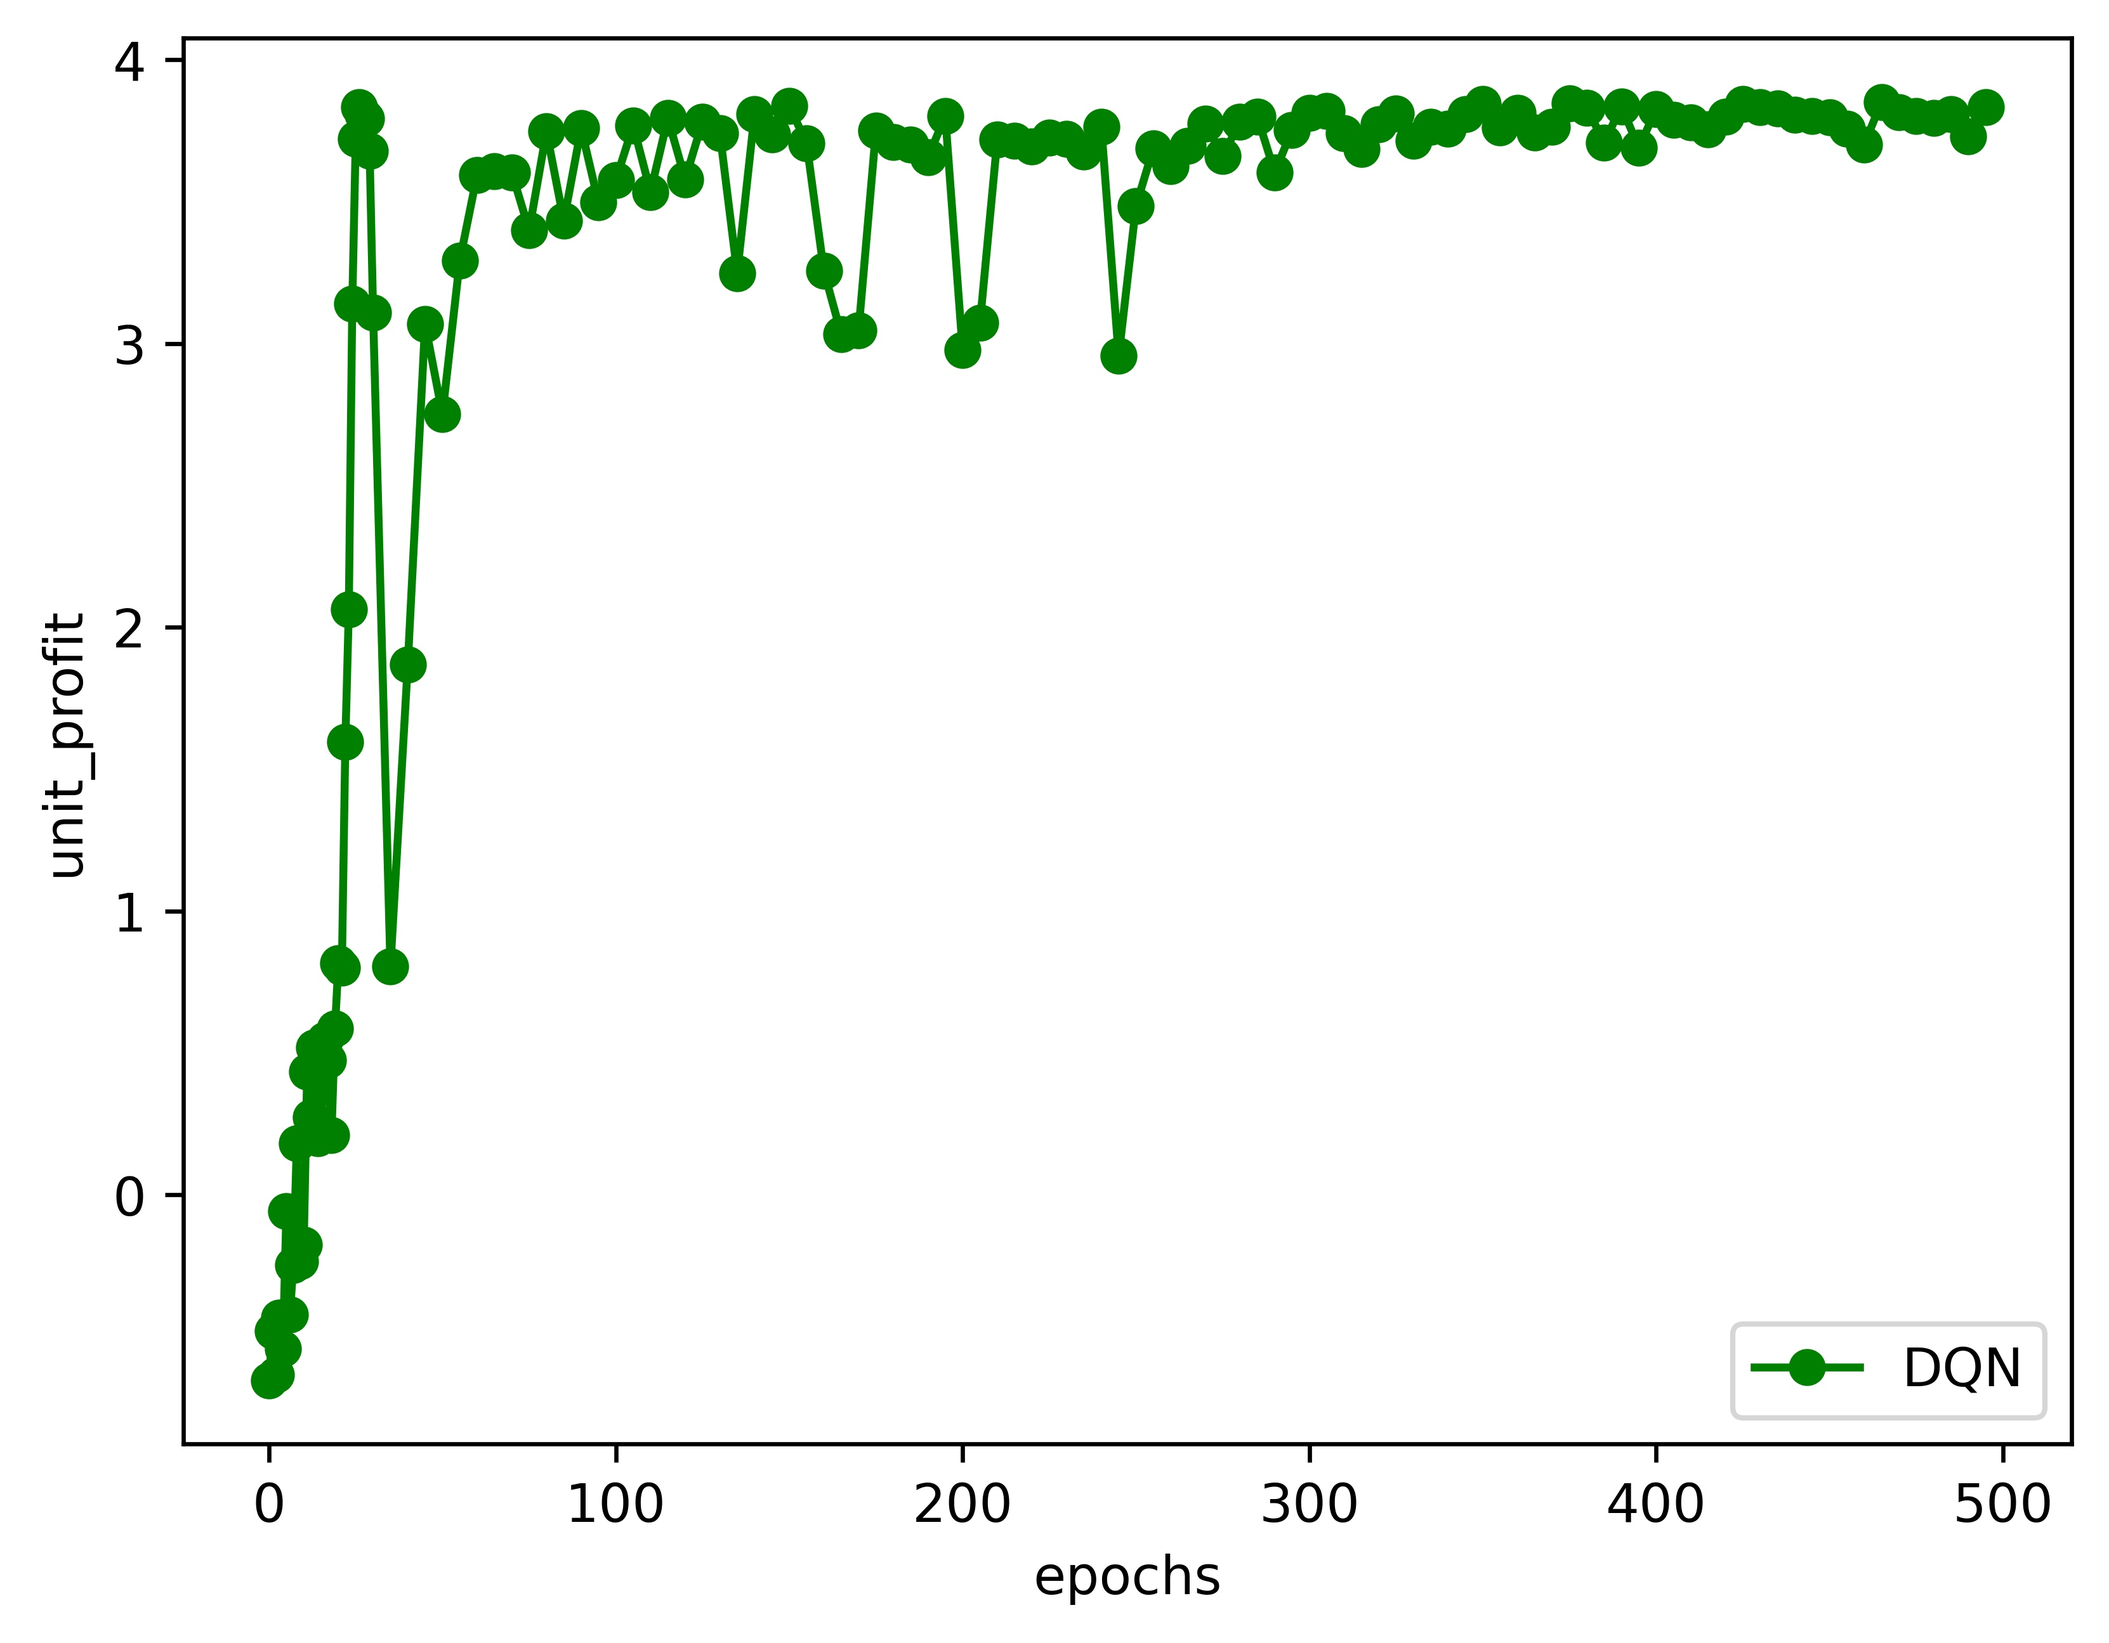
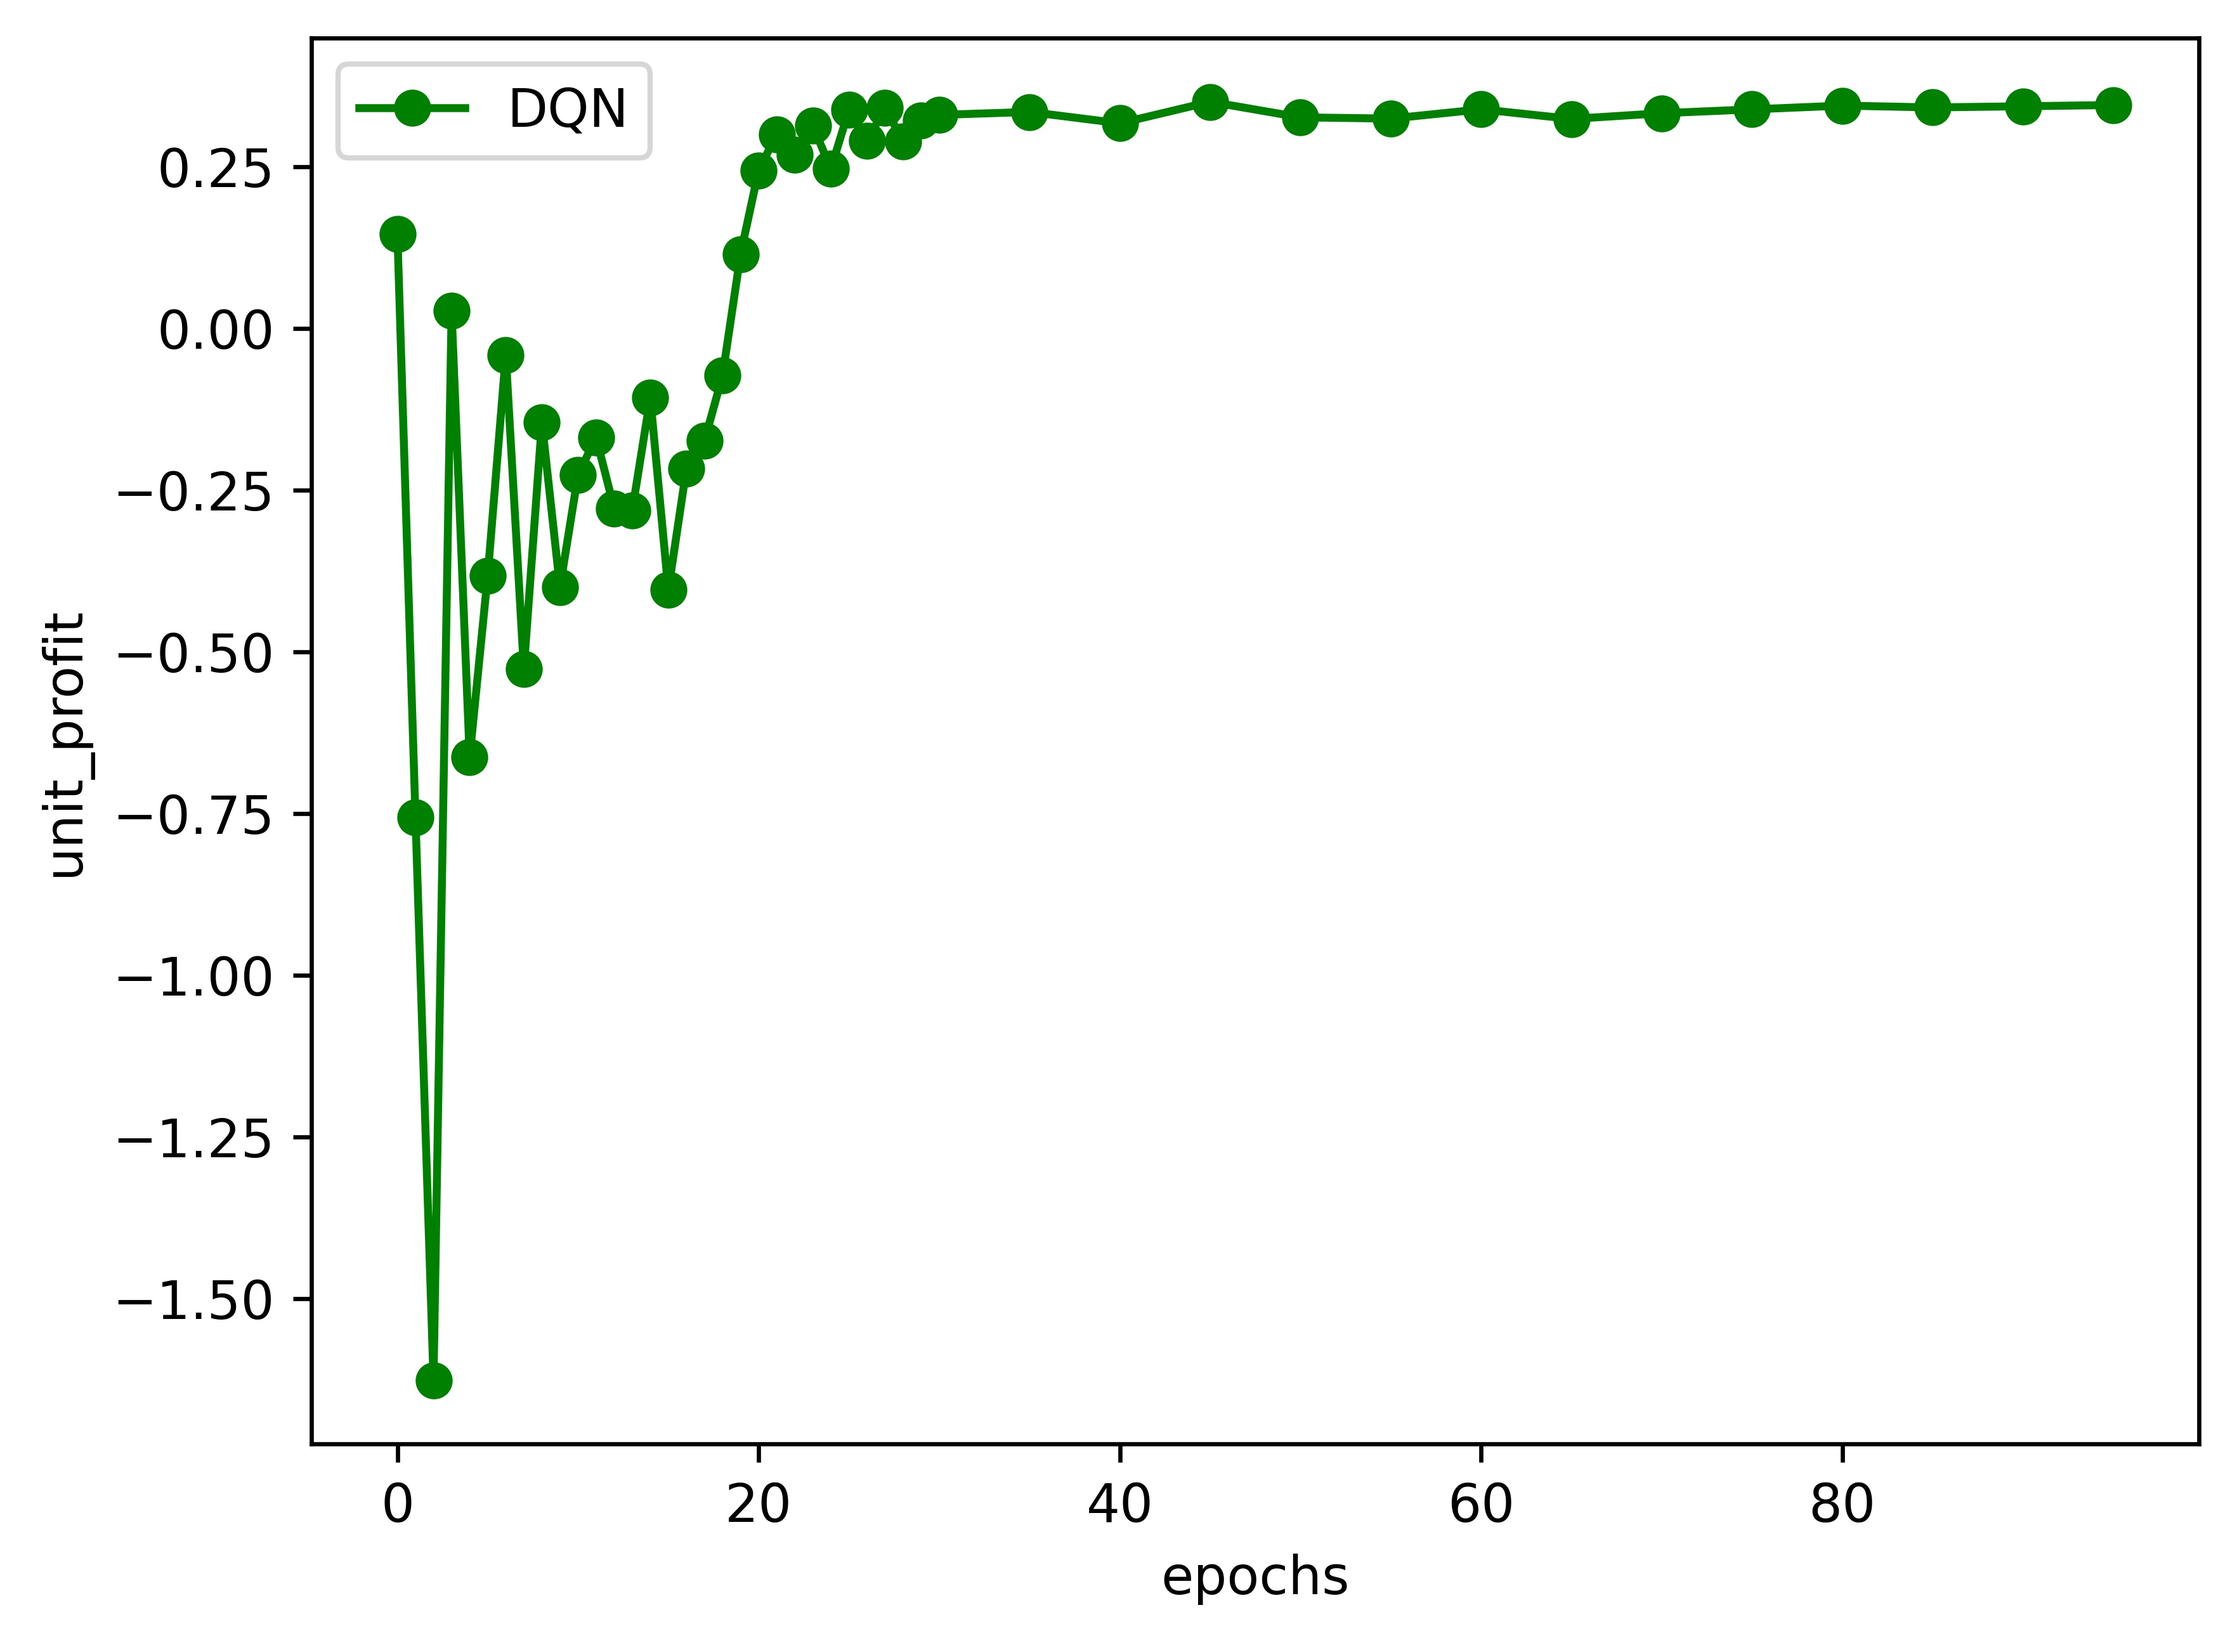
it_work

diff --git a/RL.py b/RL.py
@@ -12,6 +12,7 @@ import numpy as np
 traffic=[29, 32, 39, 43, 50, 38, 38, 22, 12, 6, 3, 2, 3, 3, 7, 12, 15, 20, 28, 26, 33, 39, 36, 44, 30, 36, 41, 50, 48, 45, 32, 22, 12, 7, 4, 2, 1, 3, 7, 13, 25, 30, 28, 37, 39, 42, 47, 38, 32, 43, 45, 44, 49, 51, 42, 31, 19, 9, 5, 3, 2, 3, 6, 13, 19, 27, 27, 32, 43, 47, 55, 46, 35, 36, 39, 43, 38, 46, 37, 29, 23, 15, 6, 2, 1, 2, 4, 6, 13, 18, 26, 35, 37, 37, 36, 43, 39, 37, 48, 43, 43, 40, 35, 31, 21, 14, 6, 3, 2, 2, 3, 7, 11, 17, 25, 34, 40, 41, 43, 38, 26, 32, 41, 36, 43, 52, 39, 28, 20, 13, 6, 4, 3, 3, 7, 17, 24, 26, 37, 34, 39, 38, 46, 44, 37, 38, 47, 48, 52, 59, 46, 30, 16, 9, 3, 2, 3, 3, 6, 16, 19, 23, 26, 32, 33, 39, 44, 43, 33, 41, 42, 39, 51, 57, 44, 28, 20, 10, 5, 2, 1, 3, 6, 12, 23, 28, 27, 34, 35, 48, 50, 49, 36, 44, 45, 44, 49, 51, 48, 32, 20, 12, 5, 4, 2, 3, 6, 15, 19, 19, 33, 33, 33, 43, 46, 39, 35, 42, 48, 47, 51, 63, 50, 35, 24, 14, 6, 3, 2, 2, 6, 14, 22, 29, 26, 33, 42, 48, 48, 42, 37, 41, 41, 38, 41, 40, 33, 26, 22, 12, 5, 3, 1, 2, 3, 9, 14, 20, 22, 29, 33, 35, 38, 41, 35, 38, 38, 42, 42, 42, 36, 31, 24, 17, 9, 5, 4, 3, 3, 3, 10, 16, 21, 29, 33, 39, 42, 39, 32, 46, 49, 52, 52, 57, 45, 32, 20, 10, 3, 4, 3, 2]
 
 history=6
+actions=10
 epsilon=1
 gamma=0.9
 zeta=10
@@ -20,9 +21,11 @@ B=1
 N=1e-10
 F=10
 
-num=40
+num=10
 
 def cal_profit(users, current, action):
+	global F
+	F=120*(action+1)/10
 
 	def gen_task():
 		tasks=dict()
@@ -140,16 +143,15 @@ def cal_profit(users, current, action):
 
 	tasks=gen_task()
 	QoS=caltech(tasks, iterative(tasks))
-	revenue=users*QoS*4
+	revenue=users*QoS*2.657
 
 	#profit
 	if current==action:
-		cost=(abs(current-action)*2/10)+0.2
+		cost=(abs(current-action)+2)*1.5+current*3
 	else:
-		cost=(abs(current-action)*2/10)
-	print(revenue,cost,current,action)
-	#return revenue-zeta*(0.1+action*0.3)/1.3
-	#return revenue-zeta*action/1.3
+		cost=current*3
+
+	#profit
 	return revenue-cost
 
 #DRL
@@ -161,42 +163,51 @@ def DQL():
 	DNN=Sequential()
 	DNN.add(Dense(64, input_shape=(history,)) )
 	DNN.add(Dense(64, activation="relu"))
-	DNN.add(Dense(5))
+	DNN.add(Dense(actions))
 	DNN.compile(loss='mae', optimizer='adam', metrics=['mae'])
 
 	def init():
-		for i in range(history, len(traffic)-1):
+		for i in range(history, len(traffic)):
 			Q[str(traffic[i-history:i])]=dict()
-			for e in range(5):
+			for e in range(actions):
 				Q[str(traffic[i-history:i])][e]=0
 
 
 	#agent explore env 一個episode
-	def play(episode):
+	def play():
 		global epsilon
-		for i in range(history, len(traffic)-1):
+		current=0
+
+		for i in range(history, len(traffic)-2):
 			state=traffic[i-history:i]
 			exp_x.append(state)
 
 			#epsilon-greedy
 			if np.random.rand()<epsilon:
-				action=np.random.randint(5)
+				action=np.random.randint(actions)
 
 			else:
 				action=DNN.predict(np.array([state]))[0]
 				action=list(action).index(max(action))
 
-			if episode>0.01:
-				epsilon-=(1-0.01)/10000
+			epsilon-=(1-0.01)/10000
 
-			target_Q=Q[str(state)]
-			print(target_Q)
 			#target_Q=DNN.predict(np.array([state]))[0]
-			#Q=r+gammaQmax
-			Q[str(state)][action]=( cal_profit(traffic[i+1], action) + Q[str(state)][action]*episode )/(episode+1)
-			target_Q[action]=Q[str(state)][action]
+			nextt=str(traffic[i+1-history:i+1])
+			best, act=0,0
+			for e in Q[nextt]:
+				if Q[nextt][e]>best:
+					best=Q[str(state)][e]
+					act=e
+			Q[str(state)][action]=cal_profit(traffic[i+1], current, action) + 0.8*cal_profit(traffic[i+1+1], action, act)
+			#Q[str(state)][action]=( cal_profit(traffic[i+1],current, action) + Q[str(state)][action]*episode )/(episode+1)
+
+			target_Q=list()
+			for e in Q[str(state)]:
+				target_Q.append(Q[str(state)][e])
 			exp_y.append(target_Q)
 		
+			current=action
 
 			if len(exp_x)>1000:
 				exp_x.pop(0)
@@ -209,6 +220,7 @@ def DQL():
 	def exam():
 		profit=list()
 		perform=0
+		current=0
 		for i in range(history, len(traffic)-1):
 			state=traffic[i-history:i]
 			
@@ -216,9 +228,9 @@ def DQL():
 			action=list(action).index(max(action))
 
 			for e in range(num):
-				perform+=cal_profit(traffic[i+1], action)/traffic[i+1]/num
+				perform+=cal_profit(traffic[i+1], current, action)/traffic[i+1]/num
 			#profit.append(cal_profit(traffic[i+1], action)/traffic[i+1])
-
+			current=action
 		#return profit
 		return perform/len(traffic)
 
@@ -229,25 +241,24 @@ def DQL():
 
 		x, result=list(), list()
 
-		while episode<1000:
-			play(episode)
+		while episode<100:
+			play()
 
 			#test revenue
-			'''if episode%5==0 or episode<30:
+			if episode%5==0 or episode<30:
 				x.append(episode)
-				result.append(exam())'''
+				result.append(exam())
 			print(episode)
 			episode+=1
 
-		print(exam())
-		'''print(x)
+		print(x)
 		print(result)
 		plt.plot(x,result,"go-",label='DQN')
 		plt.xlabel("epochs")
 		plt.ylabel("unit_profit")
 		plt.legend()
 		plt.savefig('unit_profit_DQN.jpg', dpi=600, bbox_inches='tight')
-		plt.show()'''
+		plt.show()
 
 	main()
 
@@ -258,23 +269,23 @@ def QL():
 
 	#Q table
 	def init():
-		for i in range(history, len(traffic)-1):
+		for i in range(history, len(traffic)):
 			Q[str(traffic[i-history:i])]=dict()
-			for e in range(5):
+			for e in range(actions):
 				Q[str(traffic[i-history:i])][e]=0
 
 	#一個episode
-	def play(episode):
+	def play():
 		global epsilon
 		current=0
-		for i in range(history, len(traffic)-1):
+		for i in range(history, len(traffic)-2):
 			state=str(traffic[i-history:i])
 			#epsilon-greedy
 			if np.random.rand()<epsilon:
-				action=np.random.randint(5)
+				action=np.random.randint(actions)
 
 			else:
-				best, action= 0, 0
+				best, action=0, 0
 				for e in Q[state]:
 					if Q[state][e]>best:
 						best=Q[state][e]
@@ -282,11 +293,18 @@ def QL():
 				if best==0:
 					action=np.random.randint(5)
 
-			if episode>0.01:
-				epsilon-=(1-0.01)/10000
+			epsilon-=(1-0.01)/10000
 
-			Q[state][action]=(cal_profit(traffic[i+1], current, action) + Q[state][action]*episode )/(episode+1)
+			nextt=str(traffic[i+1-history:i+1])
+			best, act=0,0
+			for e in Q[nextt]:
+				if Q[nextt][e]>best:
+					best=Q[state][e]
+					act=e
+			Q[state][action]=cal_profit(traffic[i+1], current, action) + 0.8*cal_profit(traffic[i+1+1], action, act)
+			#Q[state][action]=(cal_profit(traffic[i+1], current, action) + Q[state][action]*episode )/(episode+1)
 			current=action
+
 	#放現在的agent進去玩
 	def exam():
 		profit=list()
@@ -302,35 +320,29 @@ def QL():
 			if best==0:
 				action=np.random.randint(5)
 
-			#for e in range(num):
-			#	perform+=cal_profit(traffic[i+1], action)/traffic[i+1]/num
 			profit.append(cal_profit(traffic[i+1], current, action)/traffic[i+1])
 			current=action
 
-		#return sum(profit)
-		#return perform/len(traffic)
-		return profit
-
+		return sum(profit)/len(traffic)
 
 	def main():
 		episode=0
 		init()
 
 		x, result=list(), list()
+		revenue, cost=list(), list()
 
-		while episode<1750:
-			play(episode)
+		while episode<2000:
+			play()
 			#test revenue
 			if episode%5==0 or episode<30:
 				x.append(episode)
 				result.append(exam())
+				print(episode)
 			episode+=1
 
-		print(exam())
-
-		print(x)
 		print(result)
-		plt.plot(x,result,"go-",label='unit_profit')
+		plt.plot(x,result,"go-",label='QL')
 		plt.xlabel("epochs")
 		plt.ylabel("unit_profit")
 		plt.legend()
@@ -339,7 +351,6 @@ def QL():
 
 	main()
 
-history=8
 #def ARIMA():
 '''profit=list()
 model=ARIMA(traffic, order=(history, 0, 0))
@@ -392,9 +403,8 @@ def draw_steps():
 	plt.show()
 
 QL()
-#draw_realtime()
-#draw_steps()
 
 #4/8: QL, DQL done, traffic range 2~50, for 0.3, revenue=0.6~15*5, for 1.3, revenue=1~25*5
 #4/9: 跑圖完成
 #4/23:新增ARIMA
+#8/2: 參數 F=120*(action+1)*2/10 revenue=users*QoS*2 cost=(abs(current-action)*2+2)*3

diff --git a/server.py b/server.py
@@ -5,16 +5,16 @@ app = Flask(__name__)
 
 @app.route('/',methods=['POST'])
 def test():
-    tasks=request.get_json(force=True)
-    result=list()
-    for i in range(len(tasks)):
-        start=time()
-        for j in range(tasks[str(i)]):
-            f=open('realtime.jpg', 'rb')
-            b=f.read()
-            d=open('test.png', 'wb')
-            d.write(b)
-        result.append(time()-start)
+    req=request.get_json(force=True)
+    print(req)
+    start=time()
+    result=dict()
+    for i in range(req['round']):
+        f=open('realtime.jpg', 'rb')
+        b=f.read()
+        d=open('test.png', 'wb')
+        d.write(b)
+    result['t']=time()-start
     return jsonify(result)
 
 if __name__ == "__main__":

diff --git a/Implementation.py b/Implementation.py
@@ -18,7 +18,7 @@ def gen_task():
 	for i in range(users):
 		buf=dict()
 		buf['a']=np.random.uniform(100,1000)/1000
-		#buf['d']=np.random.uniform(100,2000)/1000
+		buf['d']=np.random.uniform(1000,2000)/1000
 		buf['d']=buf['a']
 		buf['fl']=1
 		buf['Tm']=np.random.uniform(0.1,1)
@@ -476,12 +476,7 @@ def test():
 		perform[4]+=cal_real(tasks, PSO(tasks))/num
 		perform[5]+=iterative2(tasks)/num
 		print(i)
-		'''perform[0]+=caltech(tasks, [0]*users)/num
-		perform[1]+=caltech(tasks, [1]*users)/num
-		perform[2]+=caltech(tasks, greedy(tasks))/num
-		perform[3]+=caltech(tasks, GA_x(tasks))/num
-		perform[4]+=caltech(tasks, PSO(tasks))/num'''
-
+		
 	return perform
 
 def draw_users():

diff --git a/UCD.py b/UCD.py
@@ -610,15 +610,9 @@ draw_users()
 #print(test())
 
 #2/24: iterative/greedy:1.08, iterative/GA:1.18 ,
-
 #2/25: iterative/GA_x:1.22, iterative/GA: 1.18 (both no penalty)
-
 #2/28: iterative/PSO:1.21, iterative/greedy: 1.57
-
 #4/7重新開工
-
 #4/8畫各alpha下的QoS值 B=0.1~1.3 QoS=0.3~0.5
-
 #7/30重新開工 更新alpha.jpg與多MEC
-
 #8/1 alpha圖: B=0.1, B+=0.3, F=100, users=40, beta圖: B=1, F=20, F+=20, users=40, user圖:

diff --git a/client.py b/client.py
@@ -10,6 +10,6 @@ import json
 #while 1:
 load=dict()
 load['round']=1000
-r=requests.post('http://34.80.232.139:80', data = json.dumps(load))
+r=requests.post('http://35.236.175.215:80', data = json.dumps(load))
 #r=requests.post('http://127.0.0.1:80', data = json.dumps(tasks))
 print(json.loads(r.text)['t'])
